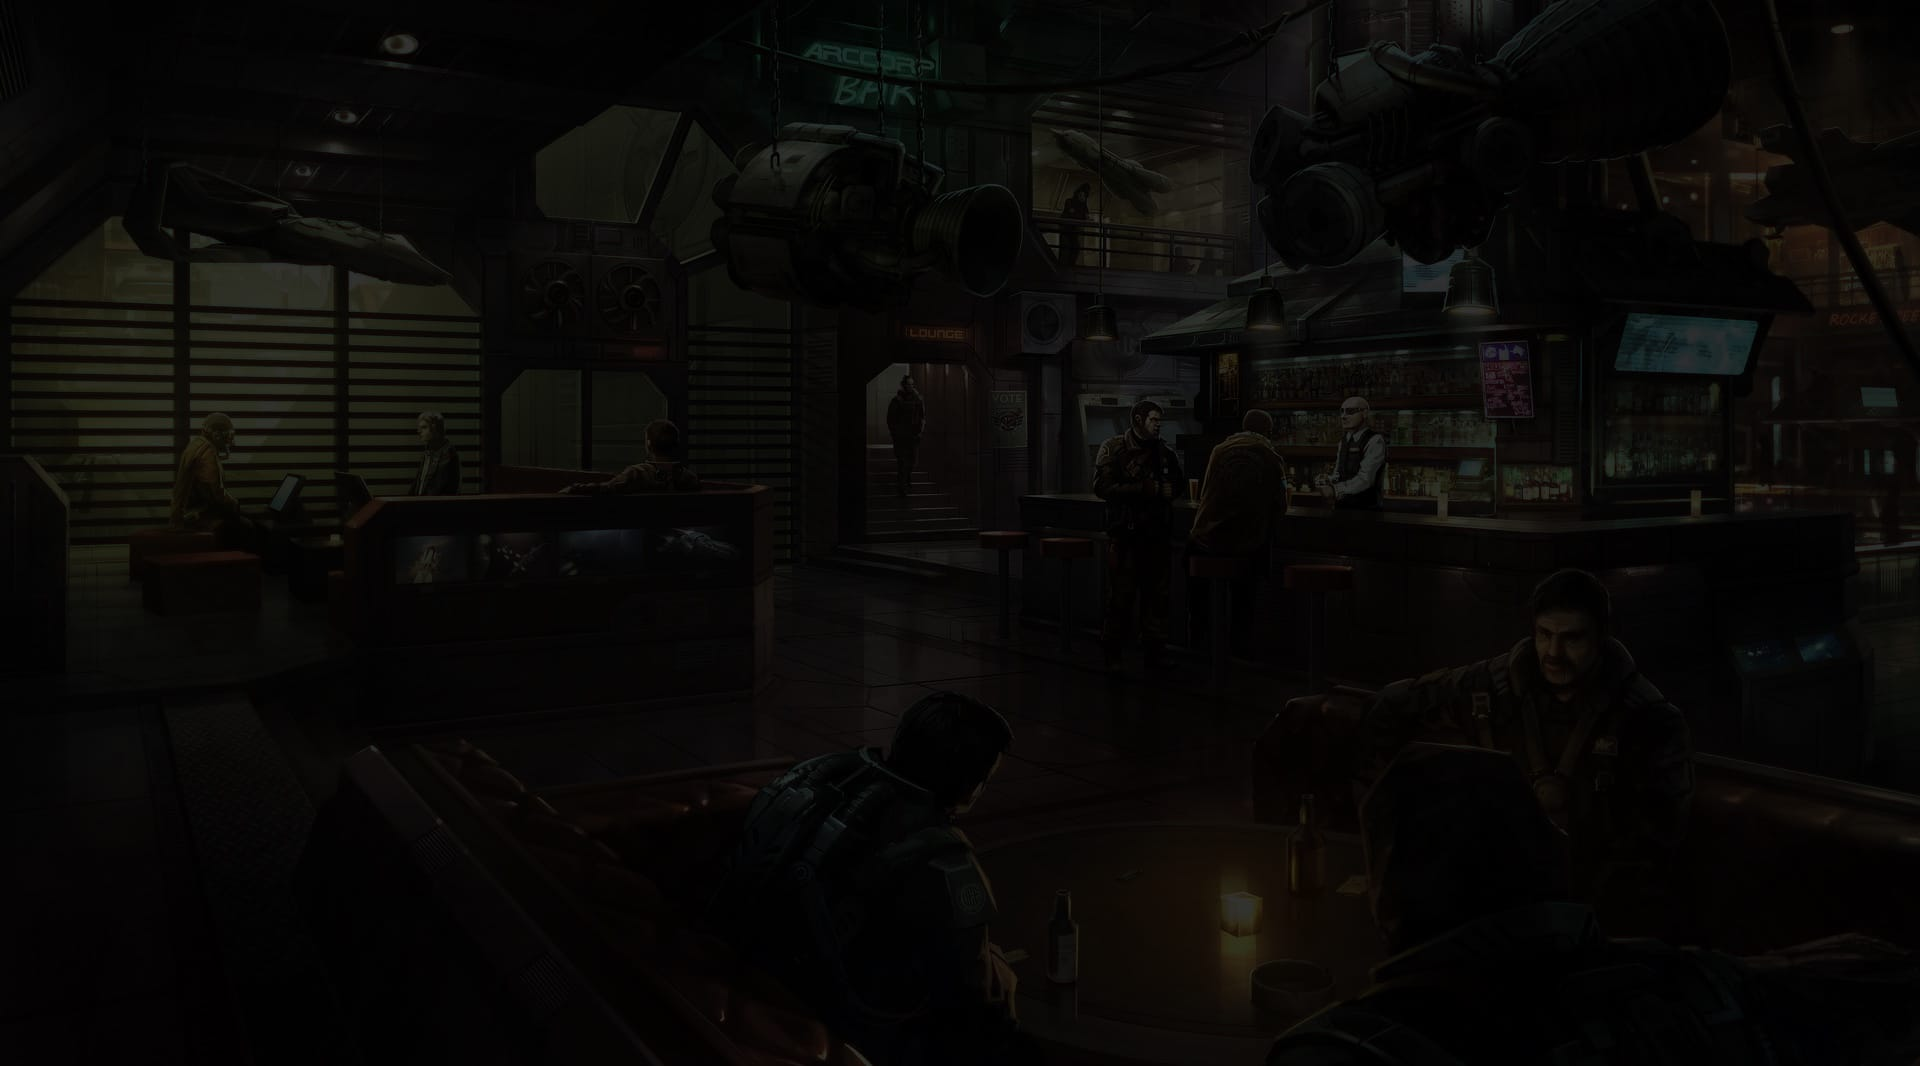
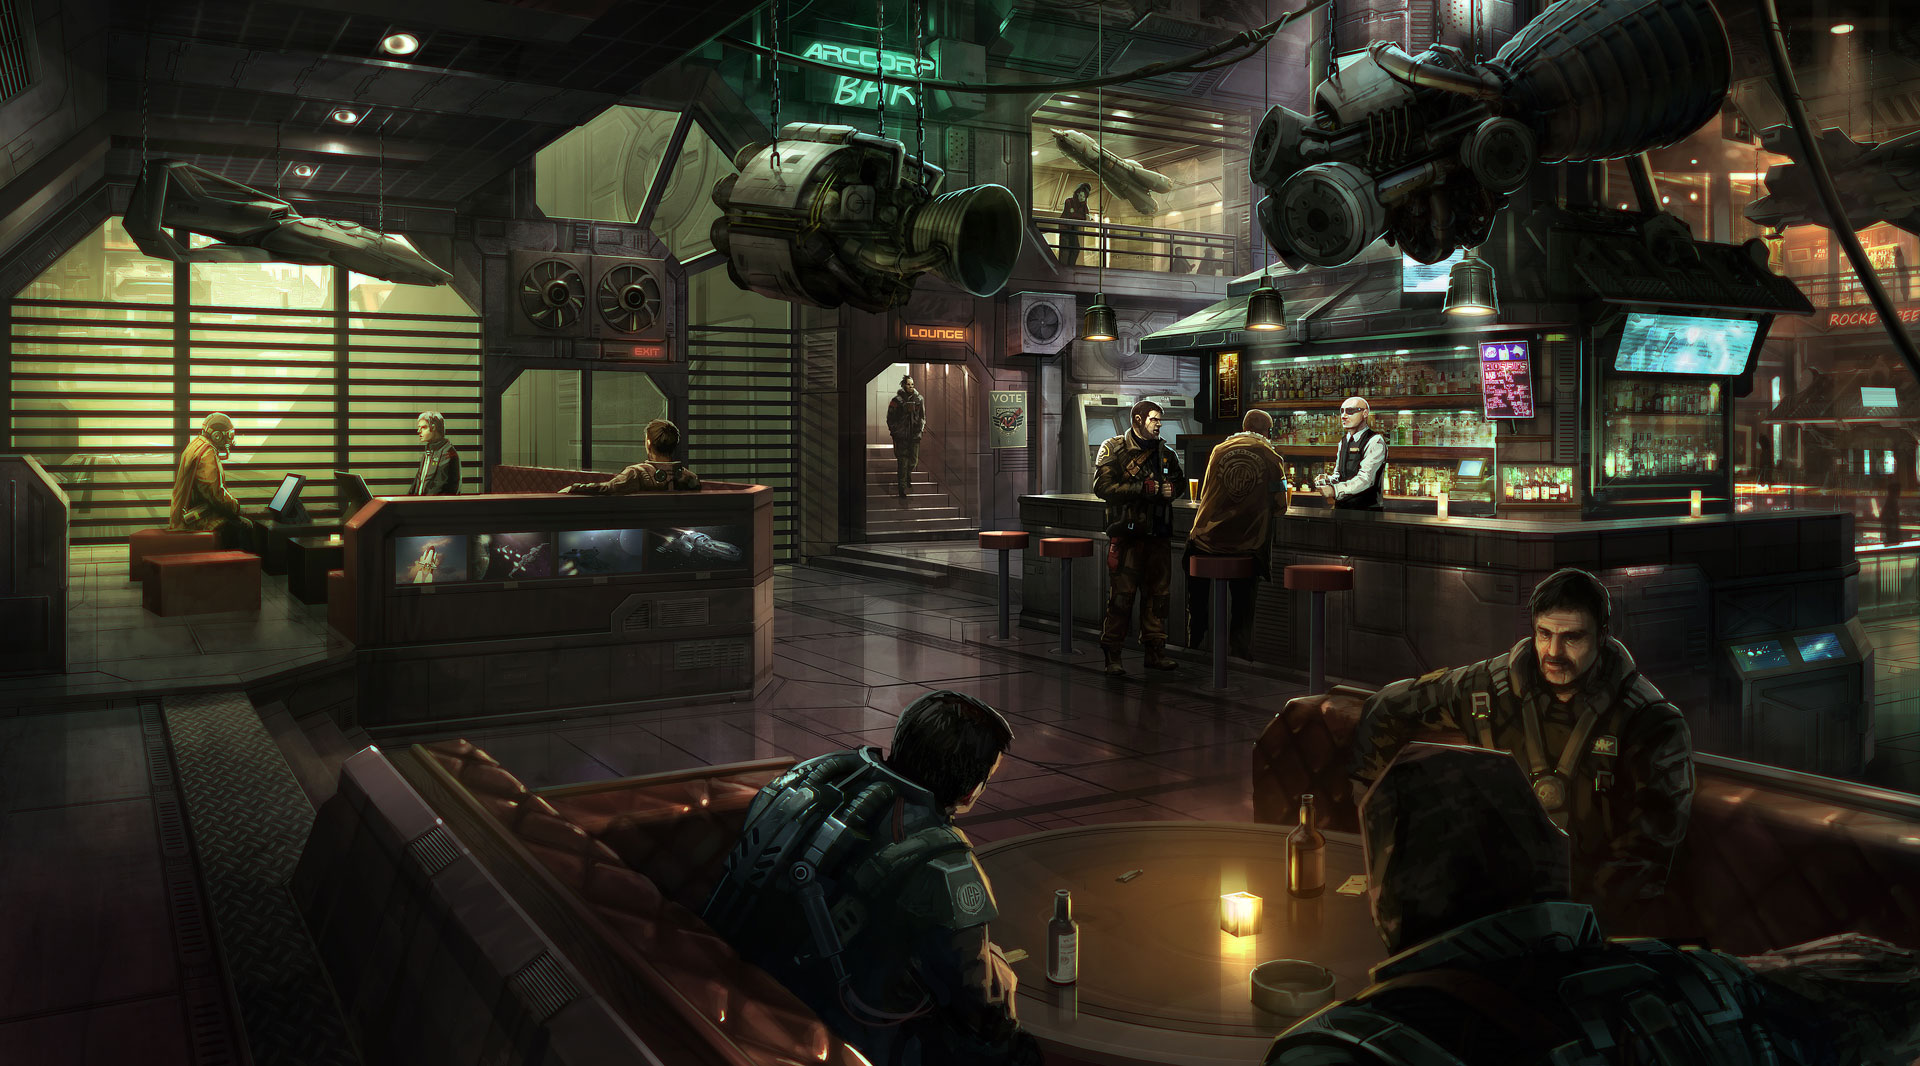
chore(background-images): update bg images for default pages and ship details

diff --git a/app/assets/stylesheets/application.scss b/app/assets/stylesheets/application.scss
@@ -32,37 +32,31 @@ body {
   min-height: 100%;
   height: auto;
   position: relative;
-  background-repeat: no-repeat;
-  background-attachment: fixed;
-  background-size: cover;
   padding-bottom: 260px;
 
   > .container {
     padding-bottom: 20px;
   }
 
-  &.bg-0 {
-    background-image: image-url("bg.jpg");
-  }
+  .background {
+    position: fixed;
+    background-repeat: no-repeat;
+    background-attachment: fixed;
+    background-size: cover;
+    background-position: center;
+    top: 0;
+    left: 0;
+    bottom: 0;
+    right: 0;
 
-  &.bg-1 {
-    background-image: image-url("bg-1.jpg");
-  }
-
-  &.bg-2 {
-    background-image: image-url("bg-2.jpg");
-  }
-
-  &.bg-3 {
-    background-image: image-url("bg-3.jpg");
-  }
-
-  &.bg-4 {
-    background-image: image-url("bg-4.jpg");
-  }
-
-  &.bg-5 {
-    background-image: image-url("bg-5.jpg");
+    .background-overlay {
+      position: absolute;
+      top: 0;
+      left: 0;
+      right: 0;
+      bottom: 0;
+      background-color: rgba(#000, .7)
+    }
   }
 }
 

diff --git a/app/helpers/application_helper.rb b/app/helpers/application_helper.rb
@@ -1,18 +1,18 @@
 module ApplicationHelper
-
-  def sortable(column, title = nil, remote = true)
+  def sortable(column, title = nil, _remote = true)
     title ||= column.titleize
     css_class = column == sort_column ? "current #{sort_direction}" : nil
     direction = column == sort_column && sort_direction == "asc" ? "desc" : "asc"
-    link_to title, plumb(sort: column, direction: direction, page: nil), {:class => css_class}
+    link_to title, plumb(sort: column, direction: direction, page: nil), class: css_class
   end
 
   def confirm_link_to(path, options = {}, &block)
     elements = []
     elements << capture(&block) if block_given?
-    elements << form_for(path, url: path, method: options[:method]) {|form|} if options[:method]
+    elements << form_for(path, url: path, method: options[:method]) { |form| } if options[:method]
 
-    content_tag(:a,
+    content_tag(
+      :a,
       href: (options[:method].blank? ? path : '#'),
       data: options[:data],
       title: options[:title],
@@ -34,5 +34,13 @@ module ApplicationHelper
   def gravatar_path(size = 20, hash = nil)
     hash ||= current_user.gravatar_hash
     "//www.gravatar.com/avatar/#{hash}?s=#{size}&d=https%3A%2F%2Fidenticons.github.com%2F#{hash}.png&amp;r=x&amp;s=#{size}"
+  end
+
+  def current_background_image
+    if content_for?(:background_image)
+      content_for(:background_image)
+    else
+      asset_path("bg-#{rand(5)}.jpg")
+    end
   end
 end

diff --git a/app/models/ship.rb b/app/models/ship.rb
@@ -83,6 +83,10 @@ class Ship < ActiveRecord::Base
     ).references(:ship_role)
   end
 
+  def random_image
+    images.enabled.order("RANDOM()").first
+  end
+
   private def update_slugs
     self.slug = SlugHelper.generate_slug(name)
   end
